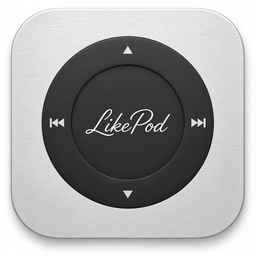
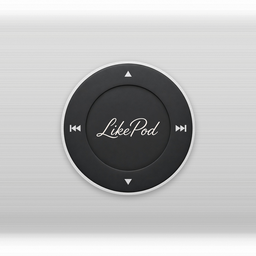
Inset the launcher wheel so adaptive masks keep the rim.
The safe-zone master is resized into every launcher density and the About icon. versionCode is 50.

diff --git a/test/about_icon_test.dart b/test/about_icon_test.dart
@@ -23,7 +23,7 @@ void main() {
       appName: 'LikePod',
       packageName: 'com.likepod.likepod',
       version: '0.1.0',
-      buildNumber: '49',
+      buildNumber: '50',
       buildSignature: '',
     );
     tester.view.physicalSize = const Size(800, 1600);
@@ -57,7 +57,7 @@ void main() {
     expect(find.text('LikePod'), findsWidgets);
     expect(find.text('Version 0.1.0'), findsOneWidget);
     expect(find.text('作者：Kimonmusic'), findsOneWidget);
-    await _saveShot(tester, 'about-vc49.png');
+    await _saveShot(tester, 'about-vc50.png');
 
     await tester.pumpWidget(const SizedBox.shrink());
     await tester.pump(const Duration(milliseconds: 50));
